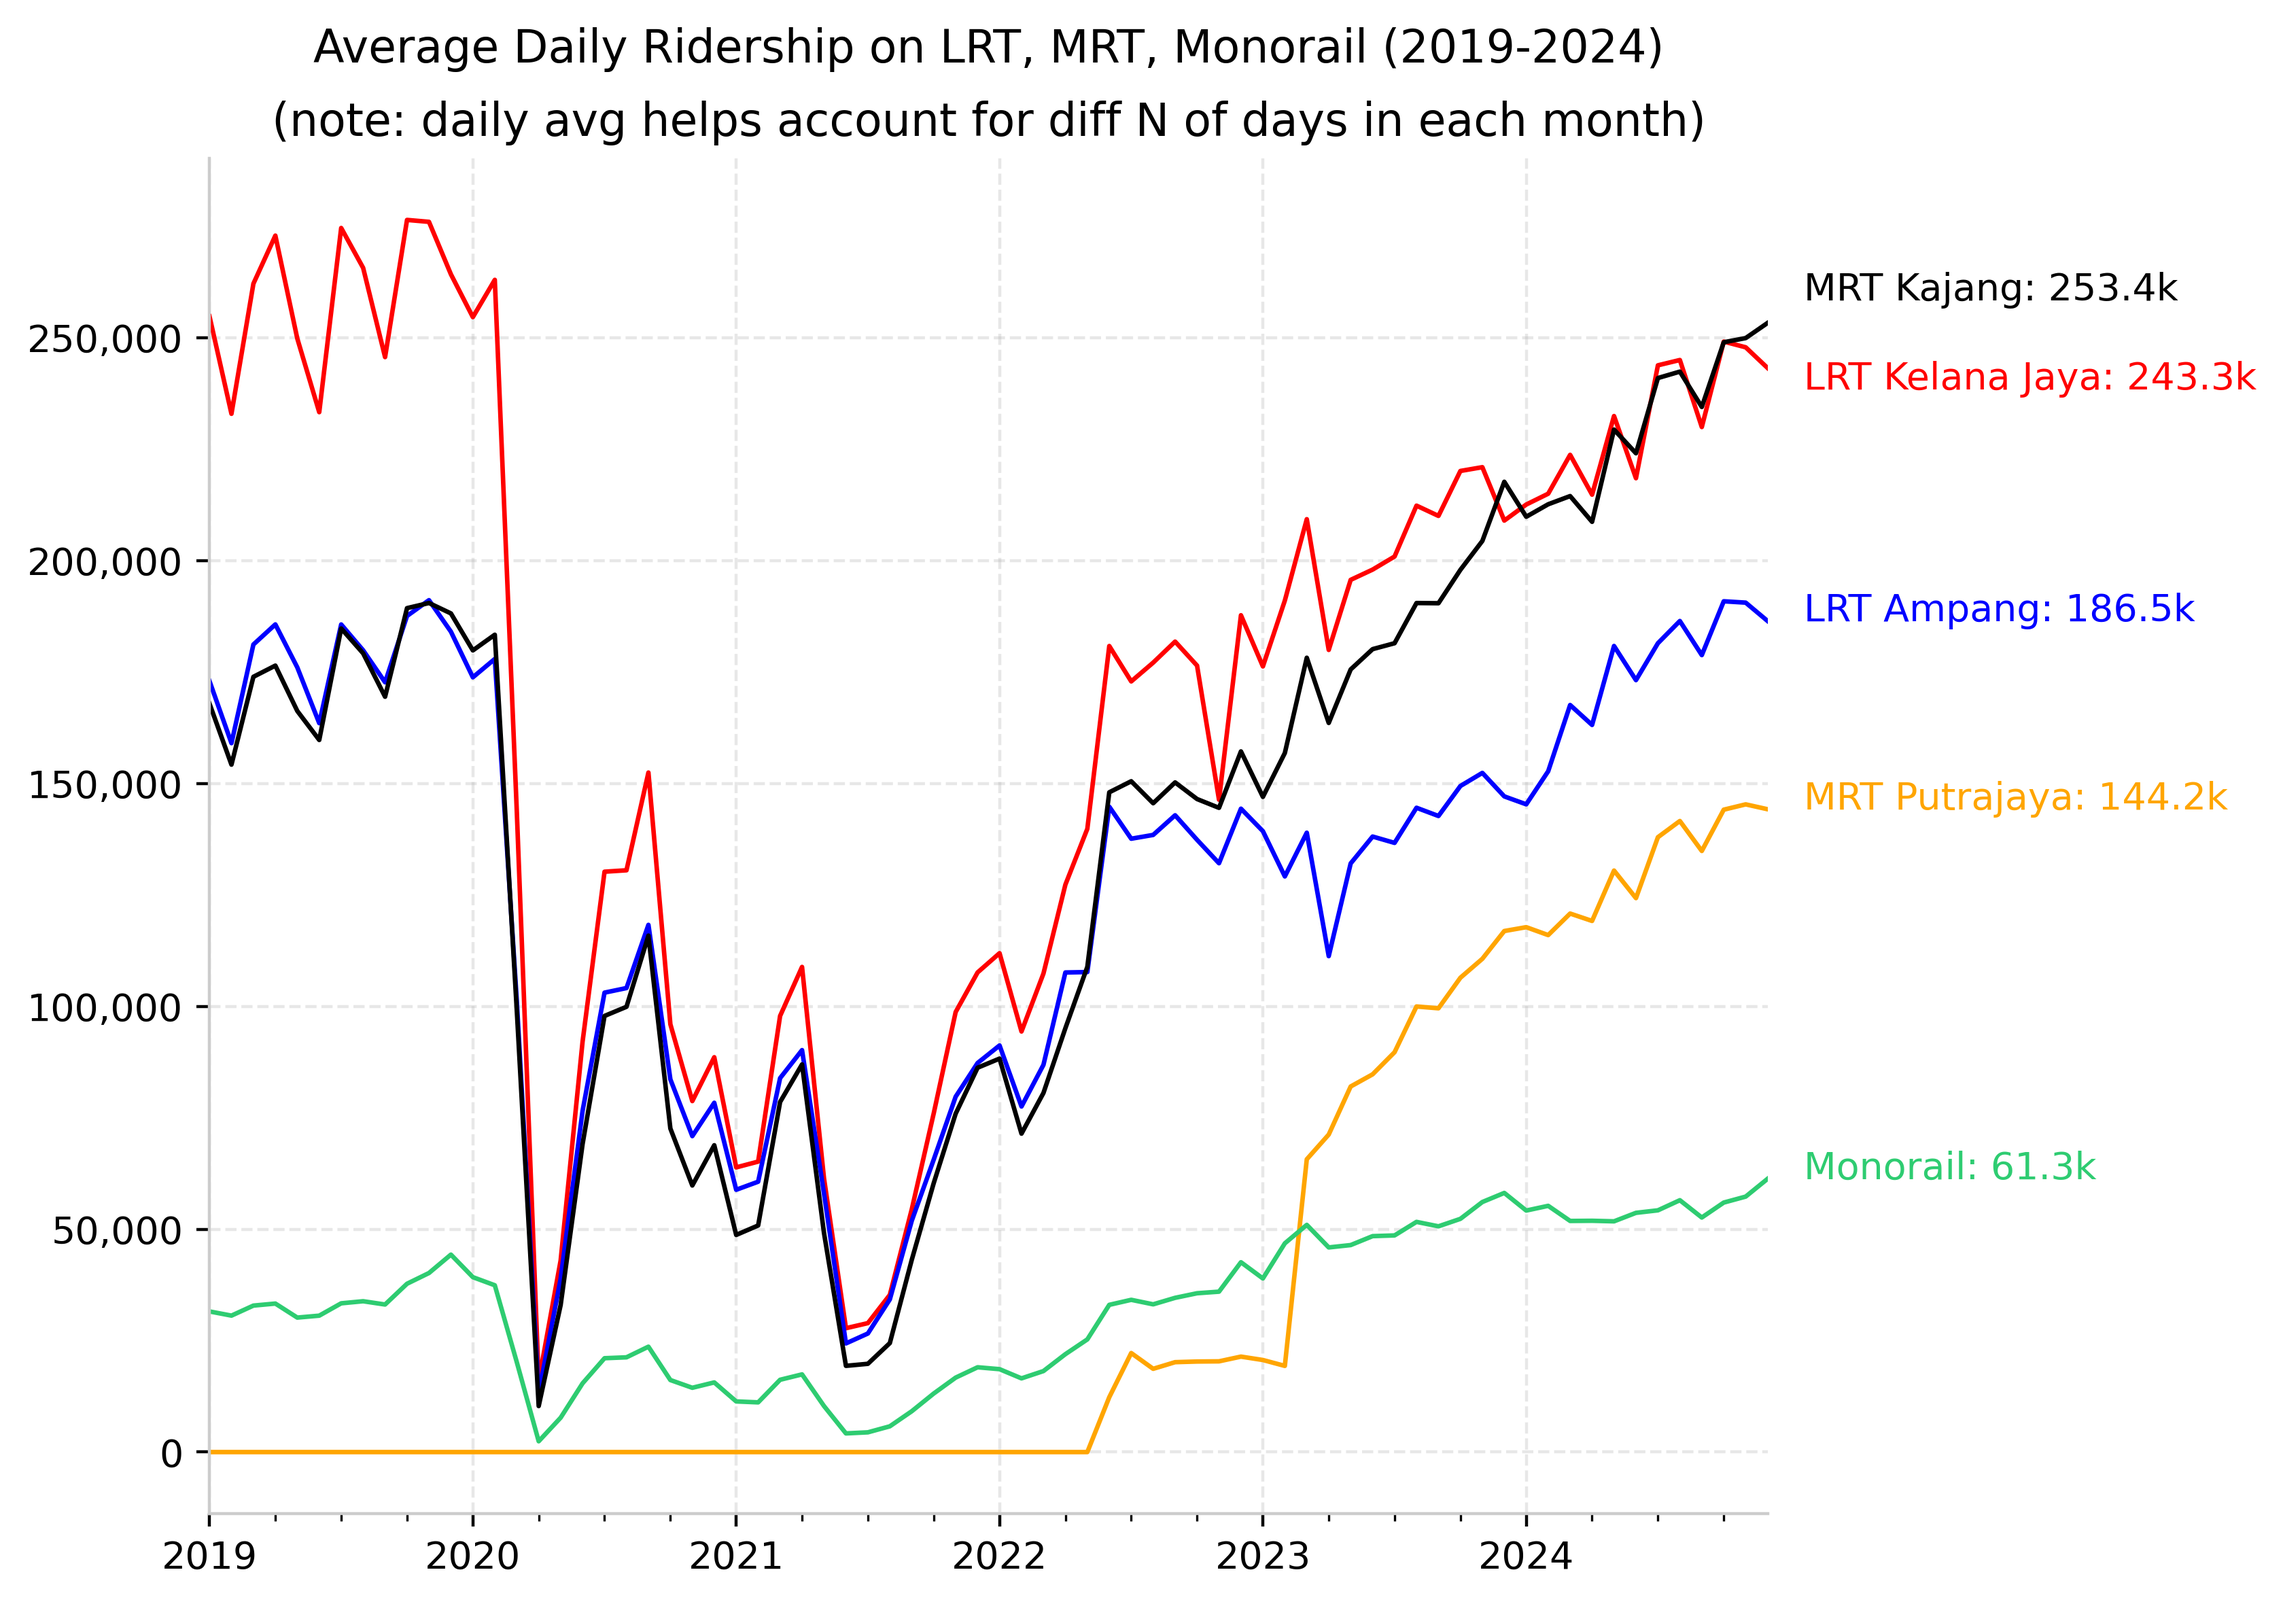
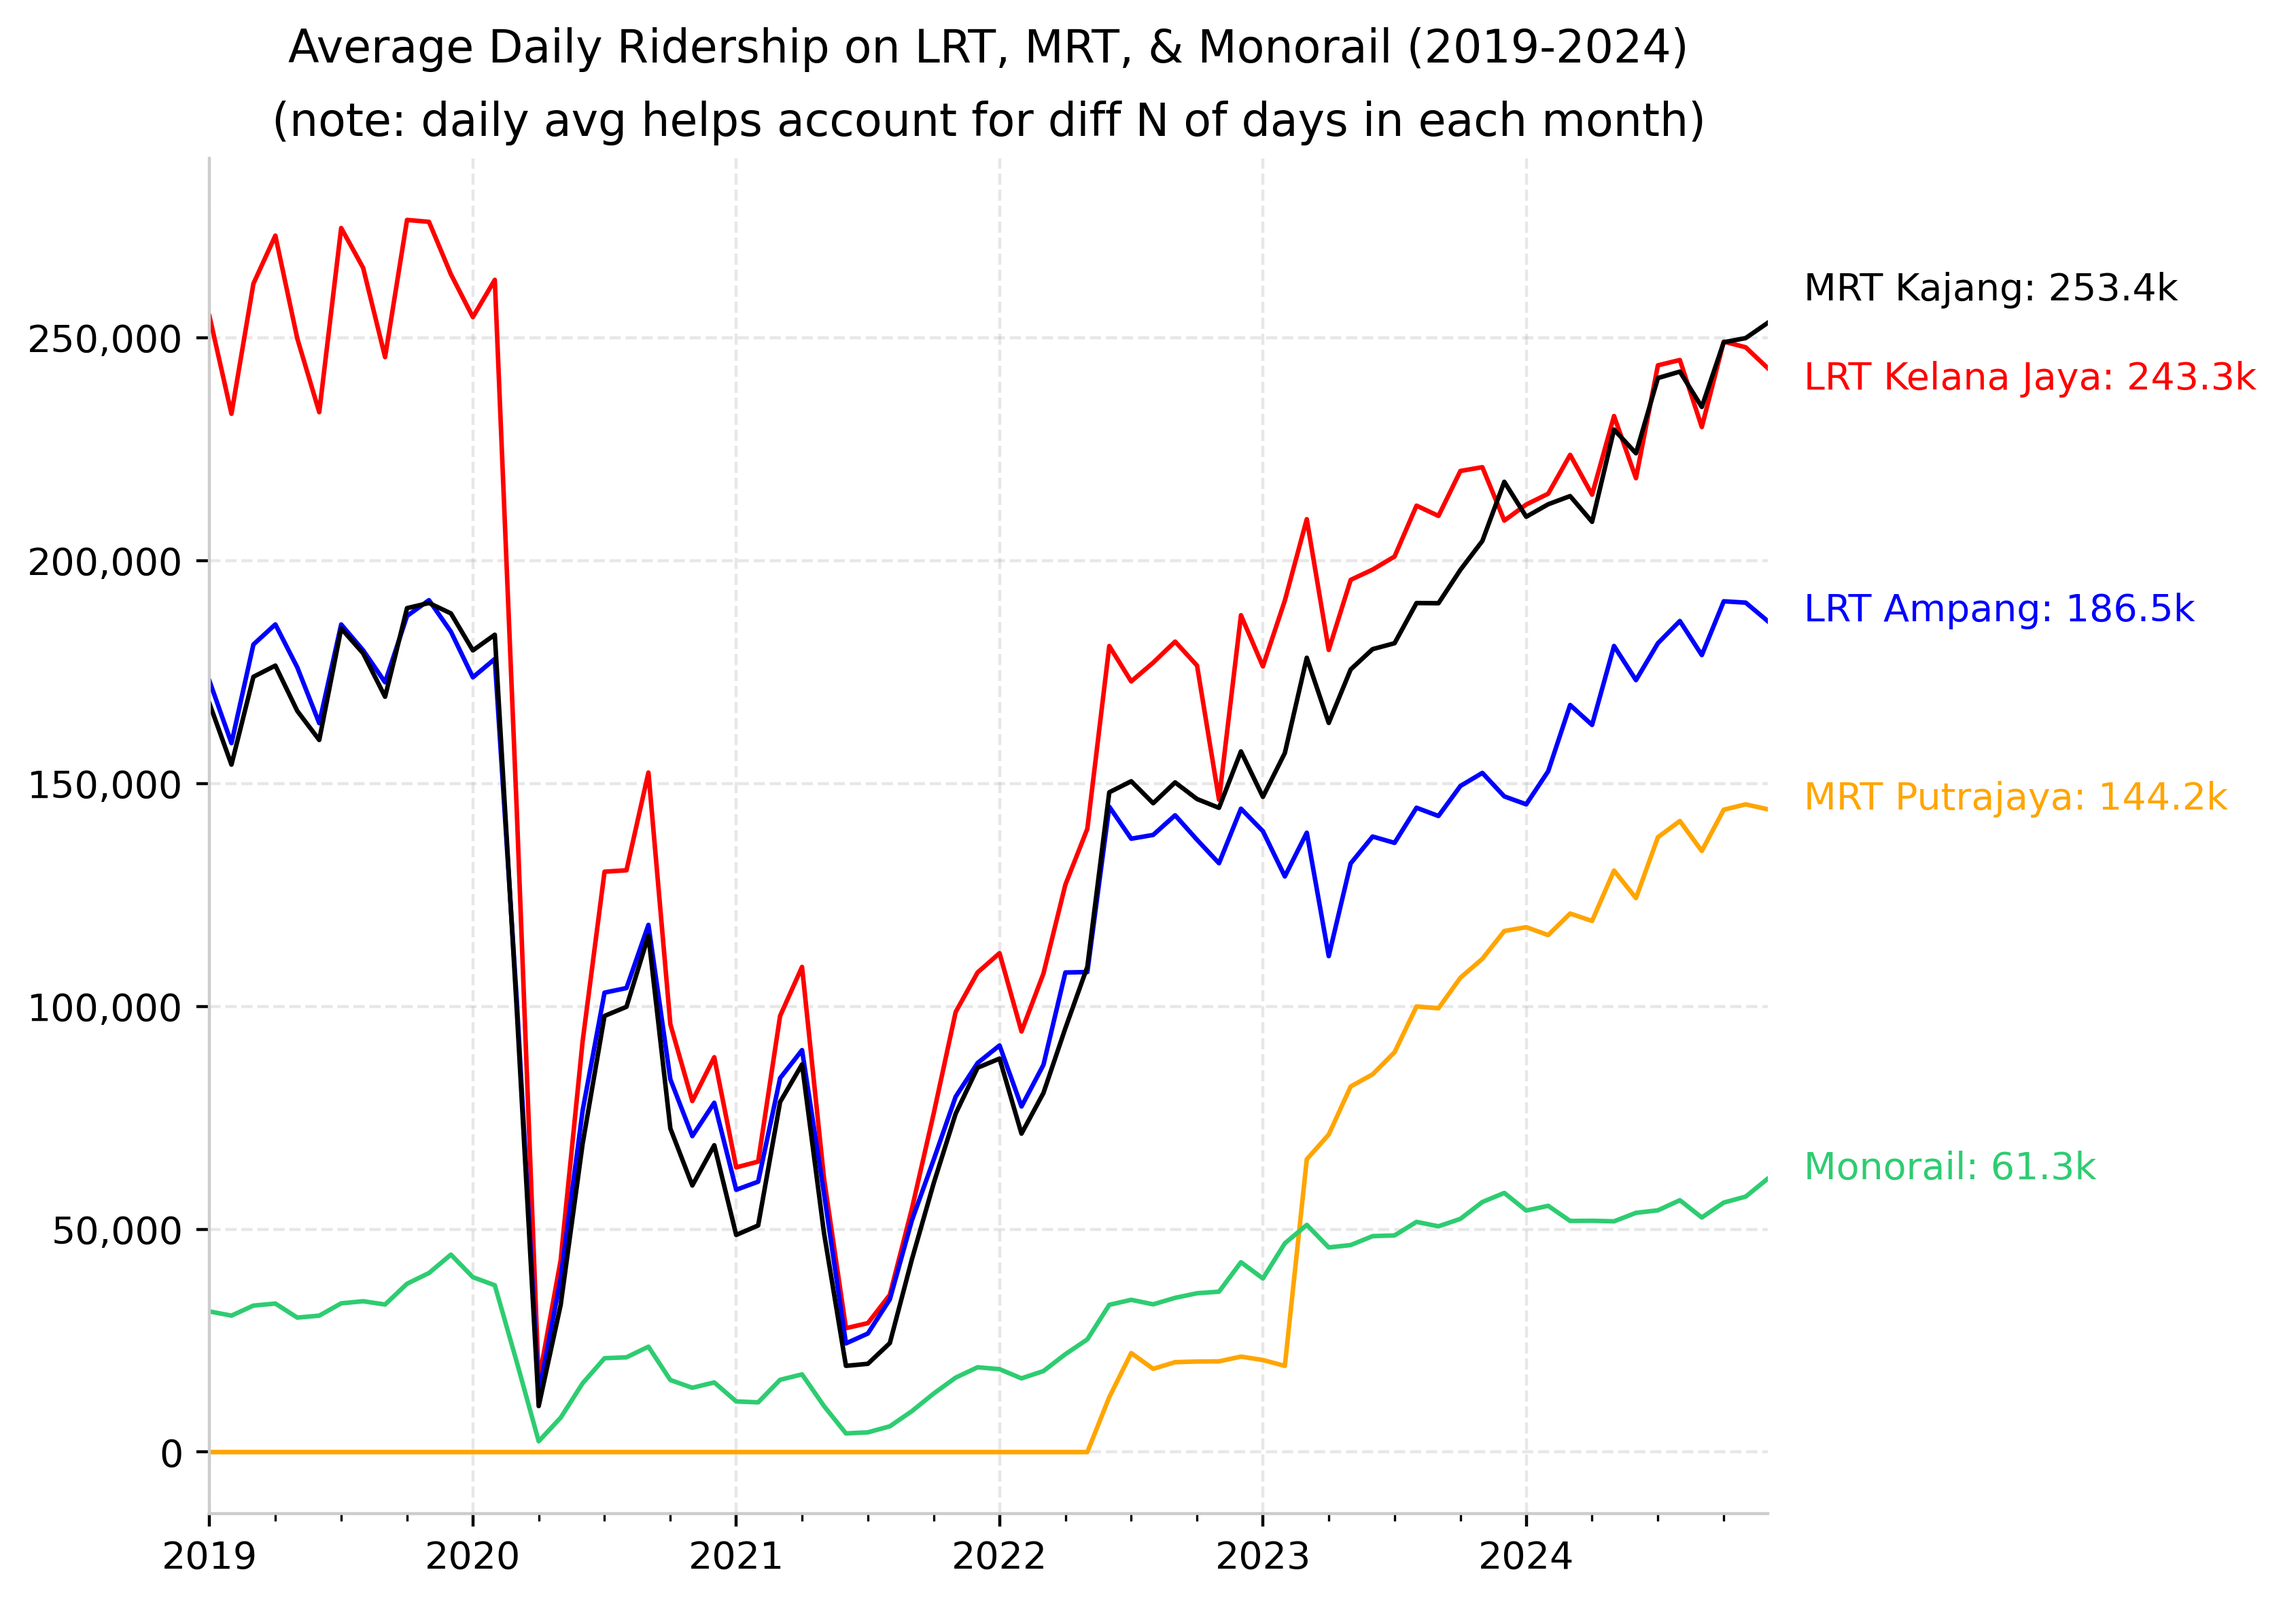
Add ridership by month

Changed region(s): [[0.1238, 0.0, 0.7431, 0.0619]]

diff --git a/2025-01-18_ridership/script.py b/2025-01-18_ridership/script.py
@@ -133,11 +133,14 @@ def timeseries_split(tf=None,TITLE=None,SAVE_AS=None):
     plt.close()
 
 
-def bar_day_of_week(tf=None,TITLE=None,SAVE_AS=None):
+def bar_day_of_week(tf=None,TITLE=None,SAVE_AS=None,MILLIONS=False):
     plt.rcParams.update({'font.size': 10,
                         'font.family': 'sans-serif',
                         'grid.linestyle': 'dashed'})
-    plt.rcParams["figure.figsize"] = [9,7]
+    if MILLIONS:
+        plt.rcParams["figure.figsize"] = [11,8]
+    else:
+        plt.rcParams["figure.figsize"] = [9,7]
     plt.rcParams["figure.autolayout"] = True
     fig, ax = plt.subplots(2,2)
     ax = ax.ravel()
@@ -146,7 +149,8 @@ def bar_day_of_week(tf=None,TITLE=None,SAVE_AS=None):
     for a in range(4):
         SPACE = '' if a < 2 else '\n'
 
-        tf[tf.line == lines_here[a]].set_index('day').plot(kind='bar',y=['2019','2024'], color=['#041f61','orange'],ax=ax[a],legend=False, lw=1)
+        INDEX = 'month' if MILLIONS else 'day'
+        tf[tf.line == lines_here[a]].set_index(INDEX).plot(kind='bar',y=['2019','2024'], color=['#041f61','orange'],ax=ax[a],legend=False, lw=1)
         ax[a].set_title(f'{SPACE}{map_cols[lines_here[a]]}',linespacing=1.8)
 
         for b in ['top','right']: ax[a].spines[b].set_visible(False)
@@ -156,7 +160,10 @@ def bar_day_of_week(tf=None,TITLE=None,SAVE_AS=None):
         # y-axis adjustments
         ax[a].set_ylabel('',linespacing=0.5)
         ax[a].yaxis.grid(True,alpha=0.3)
-        ax[a].get_yaxis().set_major_formatter(tkr.FuncFormatter(lambda x, p: format(x, ',.0f')))
+        if MILLIONS:
+            ax[a].get_yaxis().set_major_formatter(tkr.FuncFormatter(lambda x, p: format(x/1e6, ',.1f') + ' mil'))
+        else:
+            ax[a].get_yaxis().set_major_formatter(tkr.FuncFormatter(lambda x, p: format(x, ',.0f')))
 
         # x-axis adjustments
         ax[a].set_xlabel('')
@@ -166,7 +173,8 @@ def bar_day_of_week(tf=None,TITLE=None,SAVE_AS=None):
     plt.suptitle(TITLE,linespacing=1.8)
     bar_blue = plt.Rectangle((0,0), 1, 1, label='2019', color='#041f61')
     bar_orange = plt.Rectangle((0,0), 1, 1, label='2024', color='orange')
-    fig.legend(ncol=2, handles=[bar_blue, bar_orange], bbox_to_anchor=(0.5, 0.9), loc='upper center')
+    LEGEND_VPOS = 0.95 if MILLIONS else 0.9
+    fig.legend(ncol=2, handles=[bar_blue, bar_orange], bbox_to_anchor=(0.5, LEGEND_VPOS), loc='upper center')
 
     plt.savefig(f'{SAVE_AS}.png',dpi=400,bbox_inches='tight')
     plt.close()
@@ -198,7 +206,7 @@ if __name__ == '__main__':
     print('Chart: Monthly avg ridership (combined)')
     timeseries_combined(
         tf=dfmd.set_index('date'),
-        TITLE='Average Daily Ridership on LRT, MRT, Monorail (2019-2024)\n(note: daily avg helps account for diff N of days in each month)',
+        TITLE='Average Daily Ridership on LRT, MRT, & Monorail (2019-2024)\n(note: daily avg helps account for diff N of days in each month)',
         DIVISOR=1e3,
         UNIT='k',
         SAVE_AS='timeseries_combined_monthly_avg'
@@ -207,7 +215,7 @@ if __name__ == '__main__':
     print('Chart: Monthly total ridership (combined)')
     timeseries_combined(
         tf=dfmm.set_index('date'),
-        TITLE='Monthly Ridership on LRT, MRT, Monorail (2019-2024)\n(note: different N of days in months leads to fluctuations)',
+        TITLE='Monthly Ridership on LRT, MRT, & Monorail (2019-2024)\n(note: different N of days in months leads to fluctuations)',
         DIVISOR=1e6,
         UNIT='mil',
         SAVE_AS='timeseries_combined_monthly_total'
@@ -224,14 +232,14 @@ if __name__ == '__main__':
     print('Chart: Monthly total ridership (split view)')
     timeseries_split(
         tf=dfmm.set_index('date')/1e6,
-        TITLE='Monthly Ridership (millions) on LRT, MRT, Monorail (2019-2024)',
+        TITLE='Monthly Ridership (millions) on LRT, MRT, & Monorail (2019-2024)',
         SAVE_AS='timeseries_split_monthly'
     )
 
     print('Chart: Annual total ridership (split view)')
     timeseries_split(
         tf=dfy.set_index('date')/1e6,
-        TITLE='Annual Ridership (millions) on LRT, MRT, Monorail (2019-2024)',
+        TITLE='Annual Ridership (millions) on LRT, MRT, & Monorail (2019-2024)',
         SAVE_AS='timeseries_split_annual'
     )
 
@@ -255,11 +263,19 @@ if __name__ == '__main__':
     dfwc['day'] = dfwc.day.map(map_dow)
     for c in ['2019','2024']: dfwc[c] = dfwc[c].astype(int) # FINAL: Ridership by day of week in 2019 vs 2024
 
-    print('Chart: Ridership by day of week (2019-2024)')
+    print('Chart: Ridership by day of week (2019 vs 2024)')
     bar_day_of_week(
         tf=dfwc,
-        TITLE='Average Daily LRT, MRT, & Monorail Ridership\nby Day of Week (2019-2024)\n',
+        TITLE='Average Daily LRT, MRT, & Monorail Ridership\nby Day of Week\n',
         SAVE_AS='bar_dow'
+    )
+
+    print('Chart: Ridership by month (2019 vs 2024)')
+    bar_day_of_week(
+        tf=dfmc,
+        TITLE='LRT, MRT, & Monorail Ridership by Month\n',
+        SAVE_AS='bar_month',
+        MILLIONS=True
     )
 
     print('')
